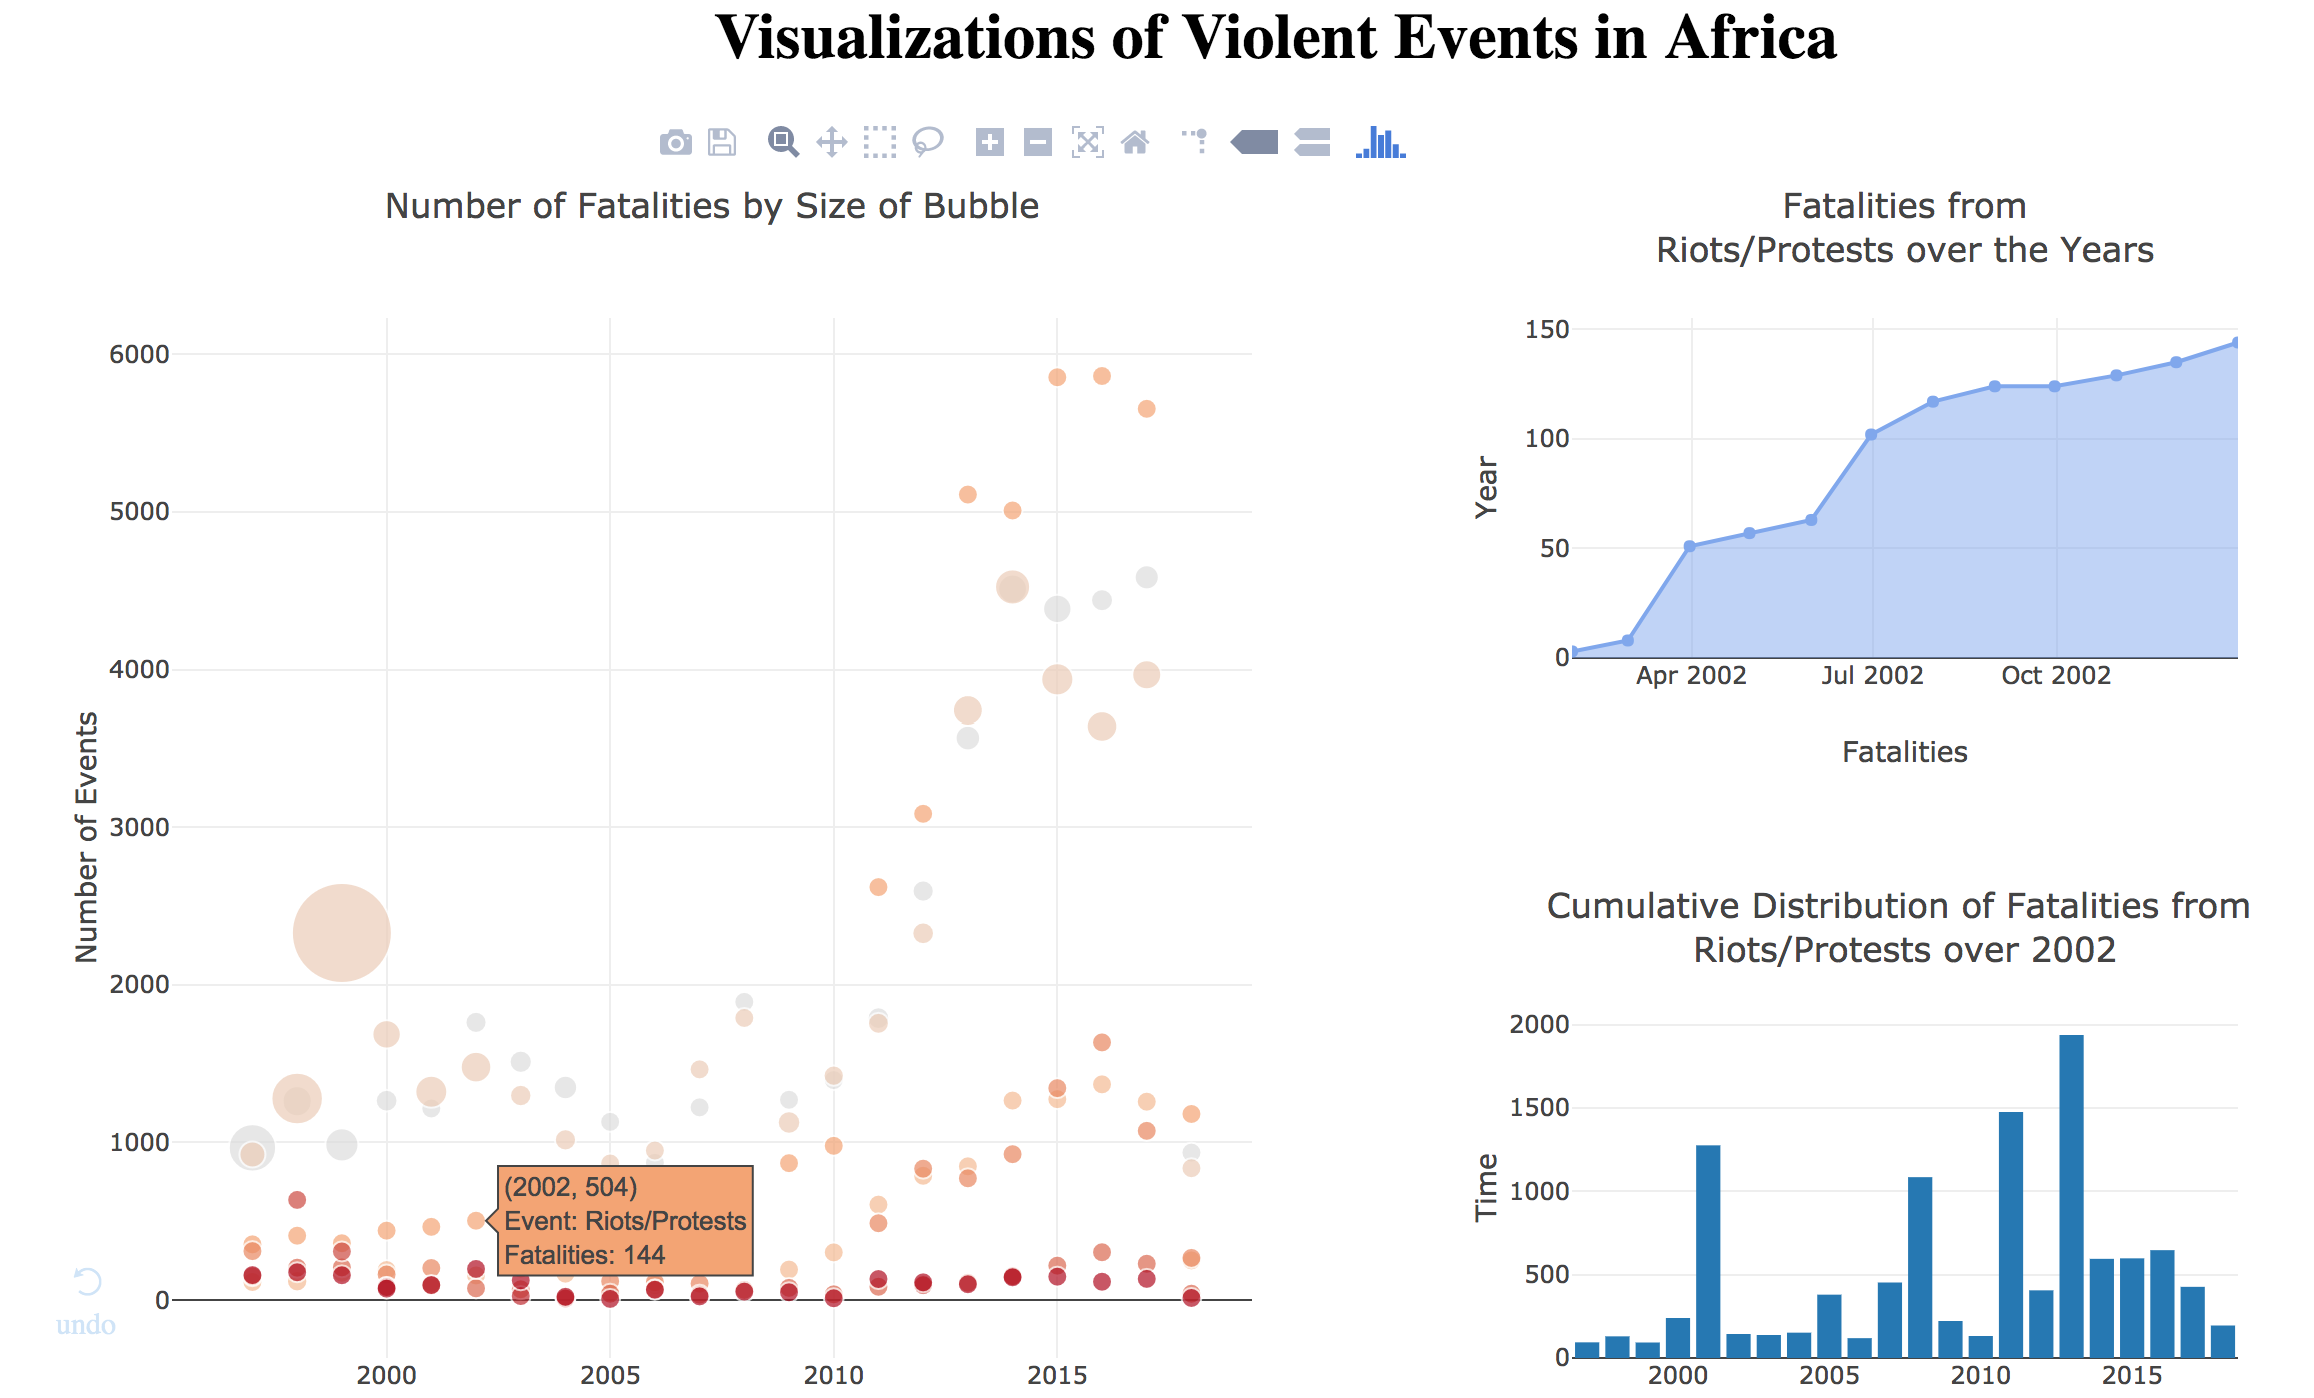
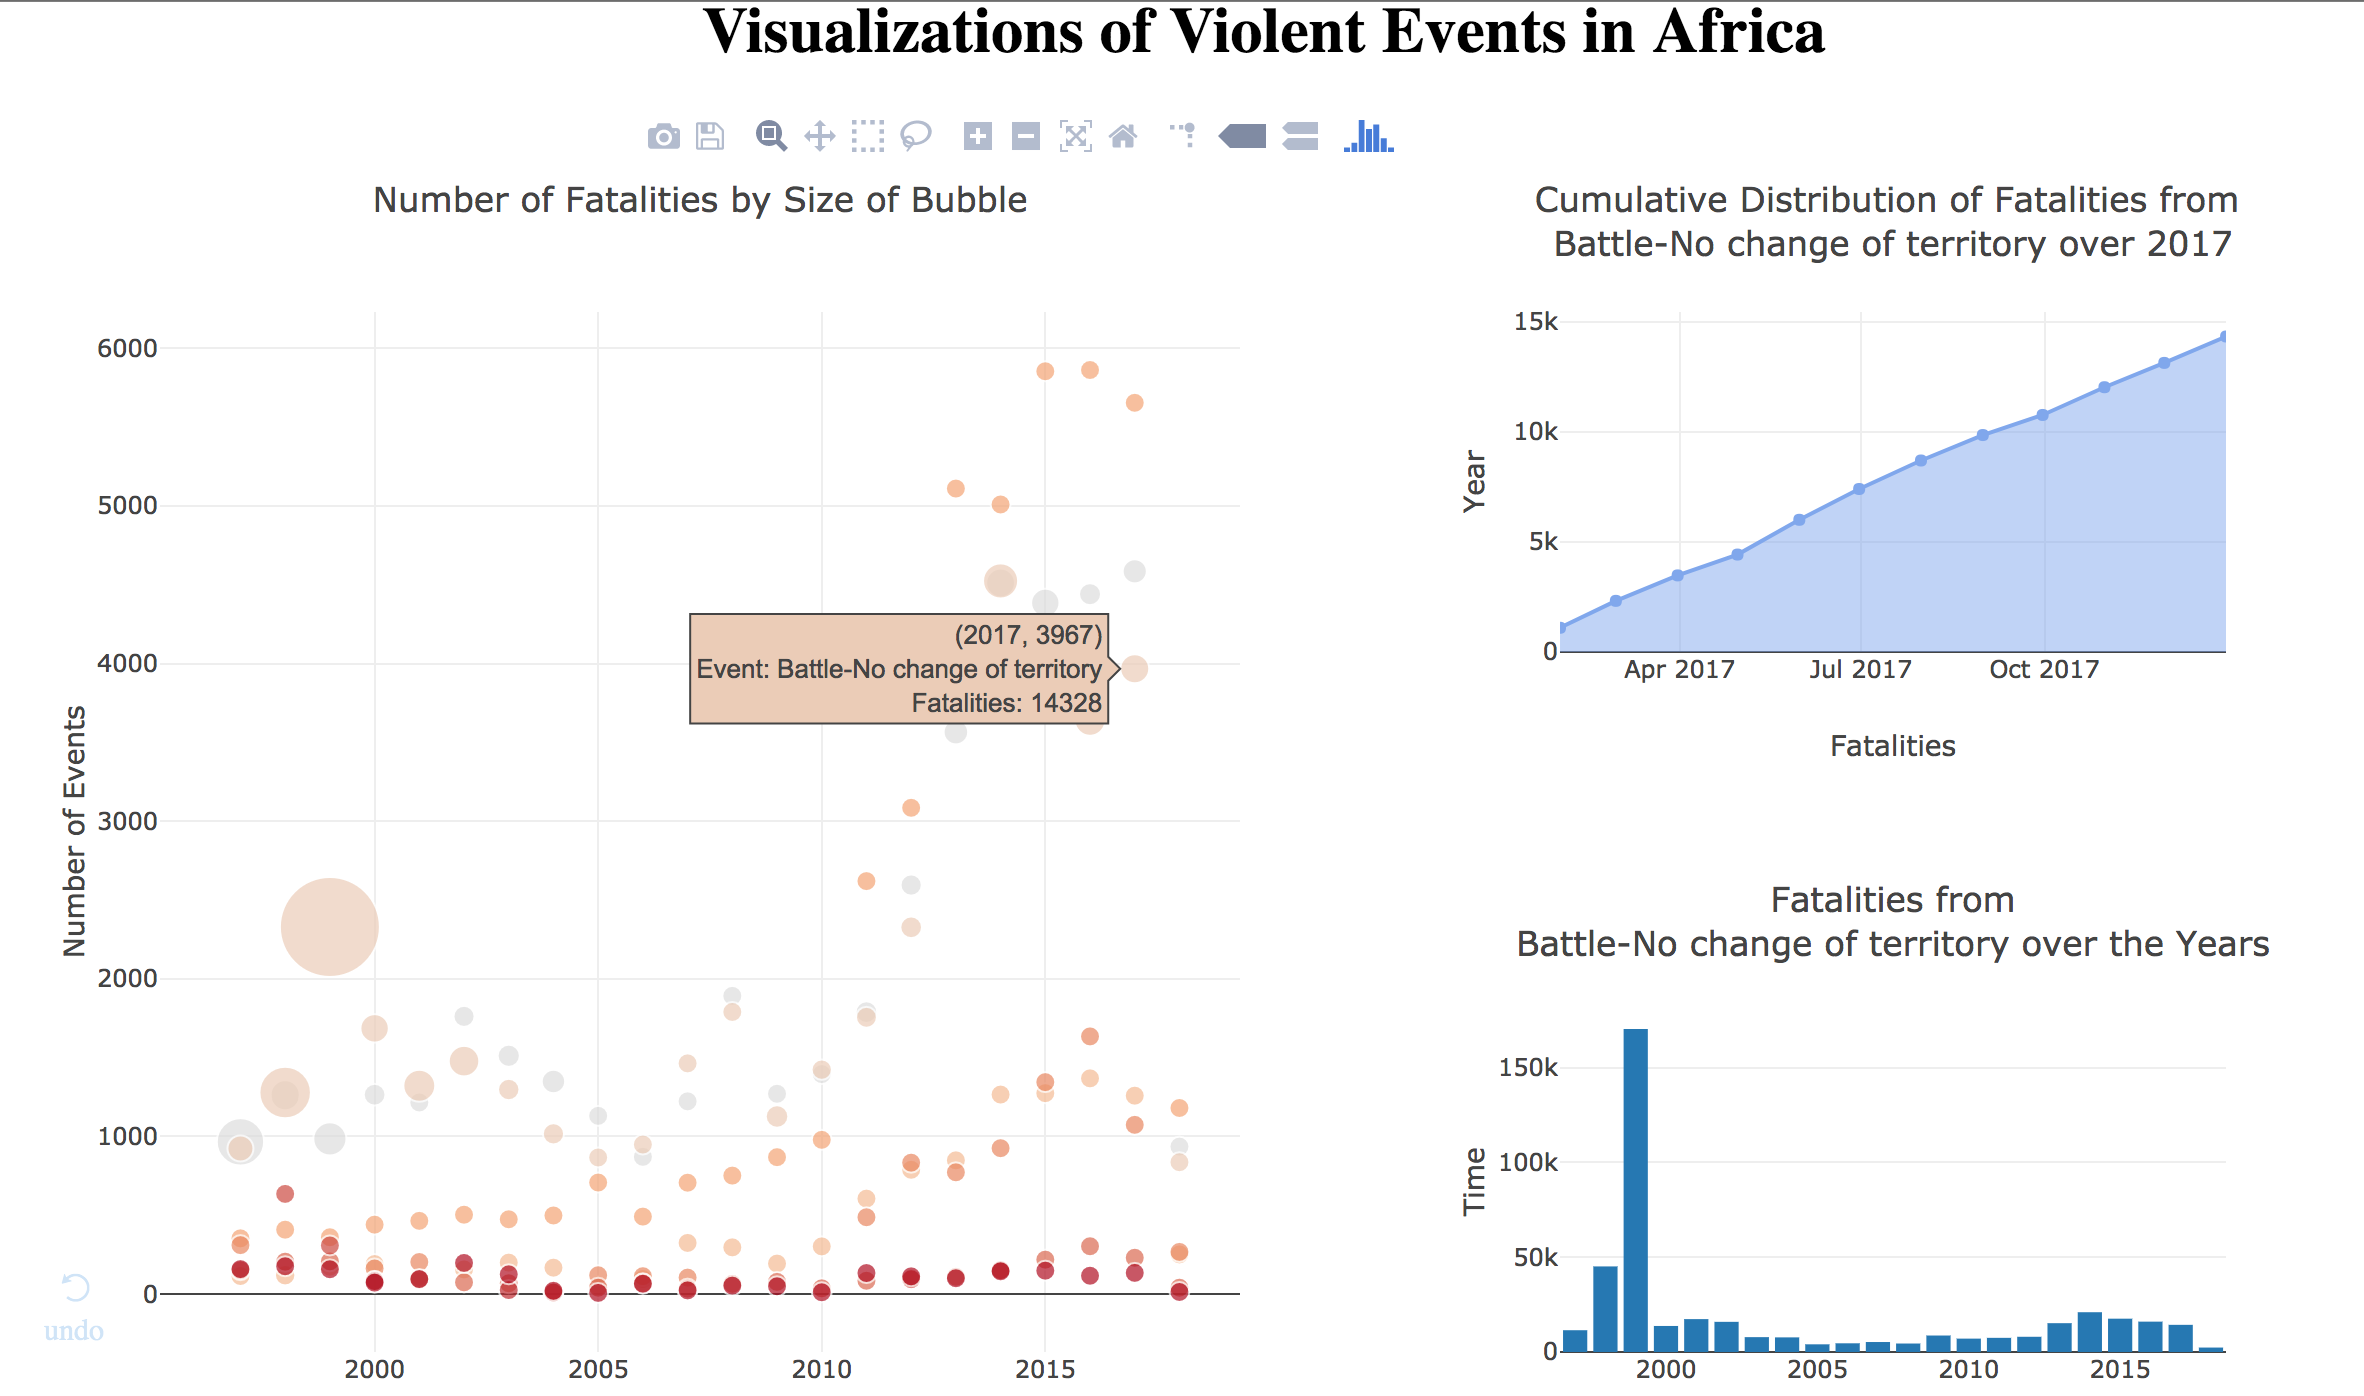
Update README.md
Add deployment files, update screenshot

Simplify requirements

diff --git a/app.py b/app.py
@@ -116,7 +116,7 @@ def update_event_years(hover_data):
         layout=go.Layout(
             paper_bgcolor='rgba(0,0,0,0)',
             plot_bgcolor='rgba(0,0,0,0)',
-            title='Cumulative Distribution of Fatalities from <br>{} over {}'.format(event, year),
+            title='Fatalities from<br>{} over the Years'.format(event),
             xaxis={'title': 'Cumulative Fatalities'},
             yaxis={'title': 'Time'},
             hovermode='closest'
@@ -150,7 +150,7 @@ def update_event_years(hover_data):
         layout=go.Layout(
             paper_bgcolor='rgba(0,0,0,0)',
             plot_bgcolor='rgba(0,0,0,0)',
-            title='Fatalities from<br>{} over the Years'.format(event),
+            title='Cumulative Distribution of Fatalities from <br>{} over {}'.format(event, year),
             xaxis={'title': 'Fatalities'},
             yaxis={'title': 'Year'},
             hovermode='closest'

diff --git a/README.md b/README.md
@@ -1,4 +1,4 @@
-![](acled-viz.png)
+![](acled-viz-pic.png)
 
 ## Project Description
 This provides an interactive dashboard interface to allow for a quick scanning of the fatalities induced by violent events in Africa.
